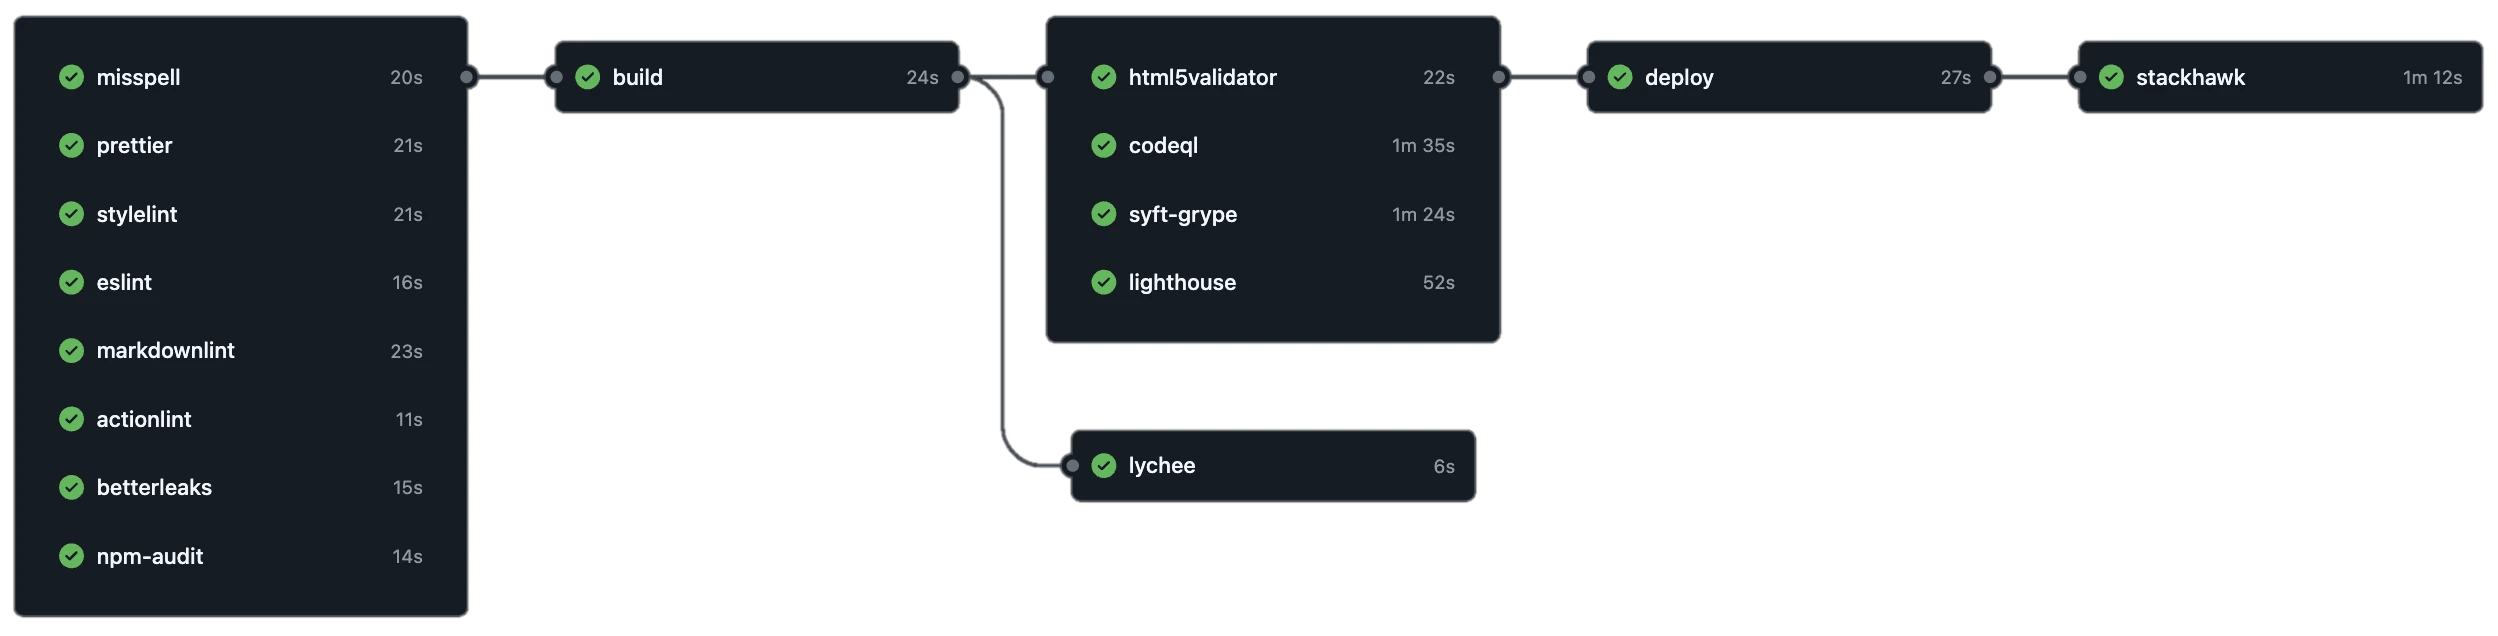
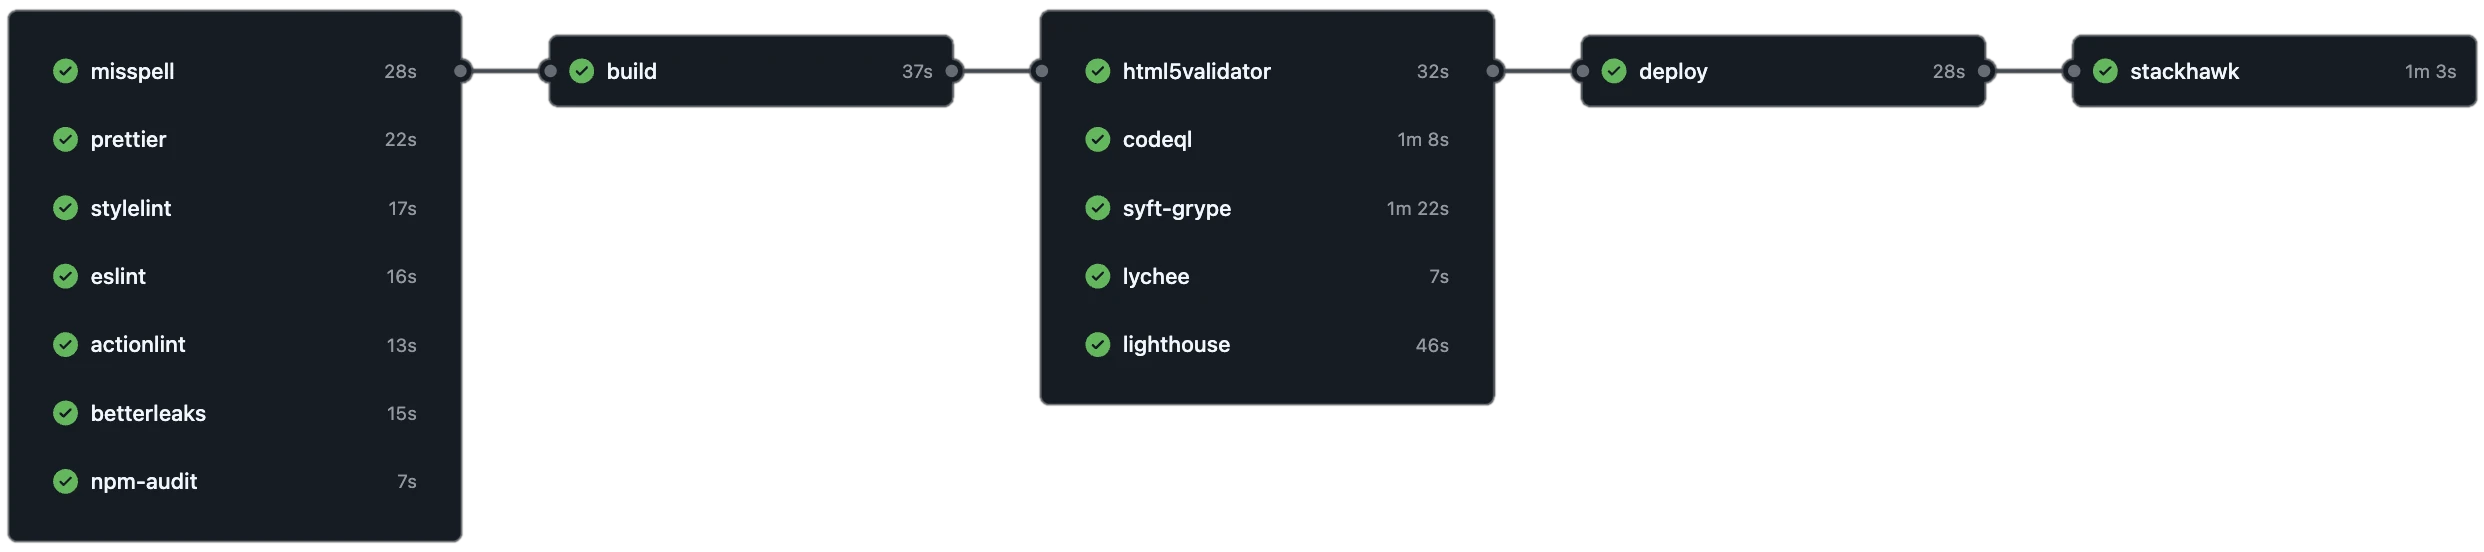
Updated CI/CD image and the hotspots.

diff --git a/src/ts/pipelineData.ts b/src/ts/pipelineData.ts
@@ -139,9 +139,9 @@ export const PIPELINE_GROUPS: PipelineGroup[] = [
   {
     left: 0.5,
     width: 18,
-    height: 10.5,
+    height: 12,
     topInitial: 7,
-    topIncrement: 10.8,
+    topIncrement: 12.4,
     jobs: [
       "misspell",
       "prettier",
@@ -154,8 +154,8 @@ export const PIPELINE_GROUPS: PipelineGroup[] = [
   },
   {
     left: 22,
-    width: 16.5,
-    height: 10.5,
+    width: 16.4,
+    height: 12,
     topInitial: 7,
     topIncrement: 0,
     jobs: ["build"],
@@ -163,31 +163,23 @@ export const PIPELINE_GROUPS: PipelineGroup[] = [
   {
     left: 42,
     width: 18,
-    height: 10.5,
+    height: 12,
     topInitial: 7,
-    topIncrement: 10.8,
-    jobs: ["html5validator", "codeql", "syft-grype", "lighthouse"],
+    topIncrement: 12.4,
+    jobs: ["html5validator", "codeql", "syft-grype", "lychee", "lighthouse"],
   },
   {
-    left: 43,
-    width: 16,
-    height: 10.5,
-    topInitial: 68,
-    topIncrement: 10,
-    jobs: ["lychee"],
-  },
-  {
-    left: 63.5,
-    width: 16,
-    height: 10.5,
+    left: 63.6,
+    width: 16.4,
+    height: 12,
     topInitial: 7,
     topIncrement: 0,
     jobs: ["deploy"],
   },
   {
     left: 83.5,
-    width: 16,
-    height: 10.5,
+    width: 16.2,
+    height: 12,
     topInitial: 7,
     topIncrement: 0,
     jobs: ["stackhawk"],

diff --git a/src/scss/main.scss b/src/scss/main.scss
@@ -110,18 +110,18 @@ details summary {
 
 #pipeline-img {
   display: block;
-  height: 400px;
+  height: 370px;
   min-width: 900px;
   max-width: none;
   width: auto;
 }
 
 button.hotspot {
+  // border: 1px solid red;
+
+  border: none;
   position: absolute;
   background: transparent;
-  border: none;
-
-  // border: 1px solid red;
   padding: 0;
   margin: 0;
   cursor: pointer;
